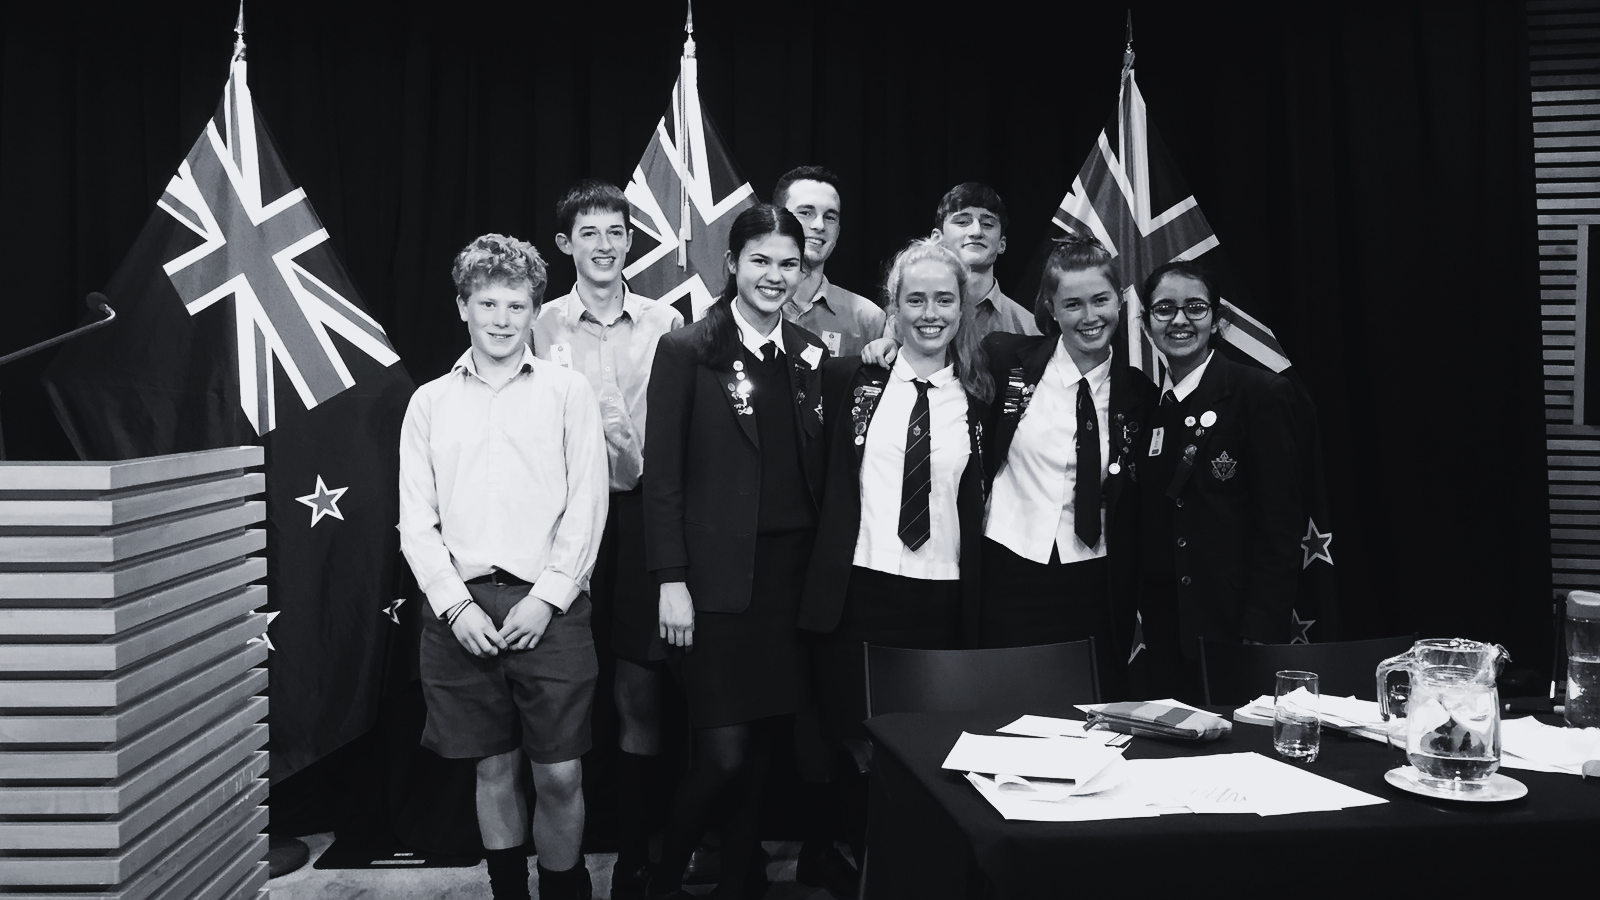
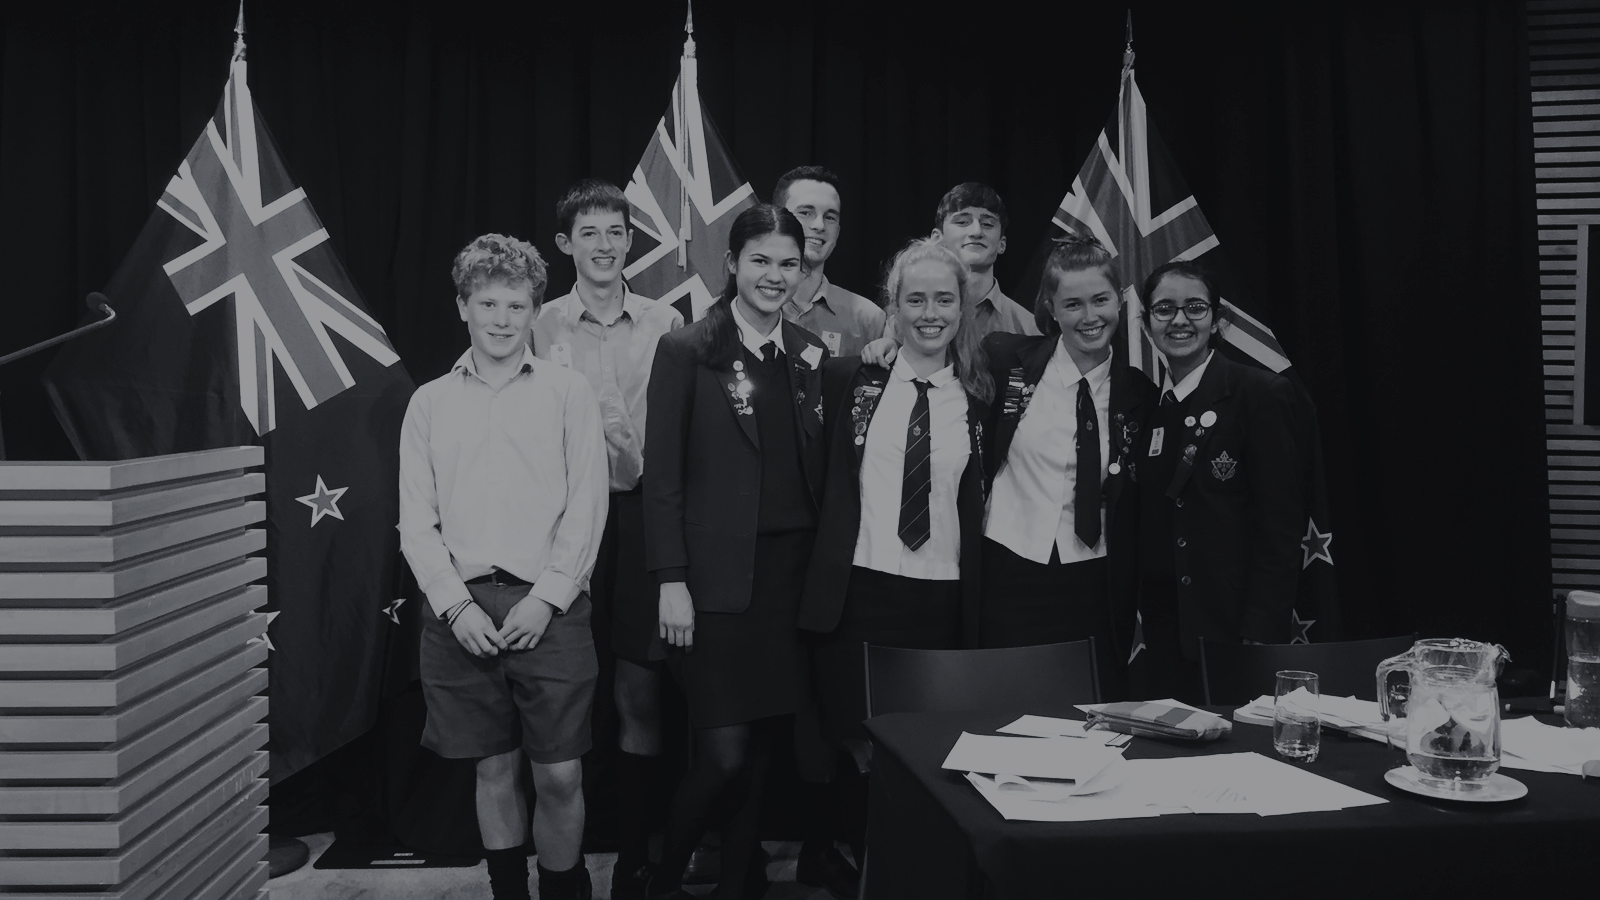
added resource and news pages and also made a parallax identity

diff --git a/static/styles.css b/static/styles.css
@@ -78,15 +78,26 @@ a.btn, a.btn-circle {
 }
 
 .parallax-container {
-    background-image: url("images/marsdenandwc - Edited.png");
     background-attachment: fixed;
-    background-position: center;
+    background-position: top;
     background-size: cover;
     min-height: 100vh;
     display: flex;
     flex-direction: column;
     align-items: center;
     justify-content: center;
+}
+
+#parallax1 {
+    background-image: url("images/MarsdenAndWC - Edited.png");
+}
+
+#parallax2 {
+    background-image: url("images/chloespeaking - Edited.png");
+}
+
+#parallax3 {
+    background-image: url("images/WC+KCPremA - Edited.png");
 }
 
 /* --- Body --- */
@@ -151,10 +162,10 @@ p {
     max-width:45%;
 }
 
-.competition-header {
+.page-header {
     font-size: 6em;
     text-align:center;
-    font-weight:600;
+    font-weight:300;
     margin:auto;
     color: var(--brand-white);
     padding: 0.5em;

diff --git a/templates/resources.html b/templates/resources.html
@@ -1,0 +1,26 @@
+{% extends "layout.html" %}
+
+{% block title %}
+Resources
+{% endblock %}
+
+{% block content %}
+
+<section class="parallax-container" id="parallax2">
+    <h1 class="page-header">resources</h1>
+</section>
+
+  <div class="container-m container-fluid">
+  <div class="row align-items-center">
+    <div class="col">Column</div>
+    <div class="col">Column</div>
+    <div class="w-100"></div>
+    <div class="col">Column</div>
+    <div class="col">Column</div>
+  </div>
+</div>
+
+  </div>
+</div>
+
+{% endblock %}

diff --git a/templates/competitions.html b/templates/competitions.html
@@ -6,8 +6,8 @@ Competitions
 
 {% block content %}
 
-<section class="parallax-container">
-    <h1 class="competition-header">competitions</h1>
+<section class="parallax-container" id="parallax1">
+    <h1 class="page-header">competitions</h1>
 </section>
 
 <div class="container-m container-fluid">
@@ -96,4 +96,5 @@ Competitions
 
   </div>
 </div>
+
 {% endblock %}

diff --git a/templates/news.html b/templates/news.html
@@ -1,0 +1,13 @@
+{% extends "layout.html" %}
+
+{% block title %}
+News
+{% endblock %}
+
+{% block content %}
+
+<section class="parallax-container" id="parallax3">
+    <h1 class="page-header">news</h1>
+</section>
+
+{% endblock %}

diff --git a/server.py b/server.py
@@ -12,11 +12,11 @@ def competitions():
 
 @app . route ('/resources')
 def resources():
-    return "<h1>resources</h1>"
+    return render_template("resources.html")
 
 @app . route ('/news')
 def news():
-    return "<h1>news</h1>"
+    return render_template("news.html")
 
 if __name__ == "__main__":
     app.run(debug=True)
